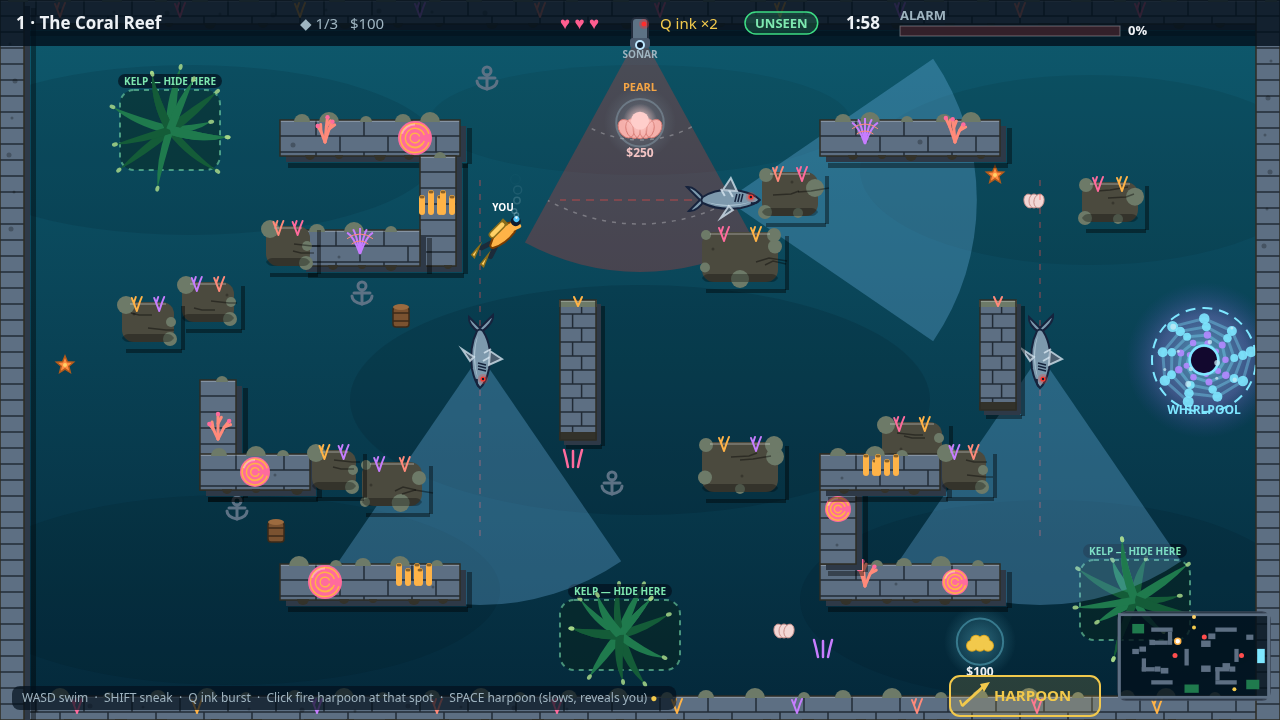
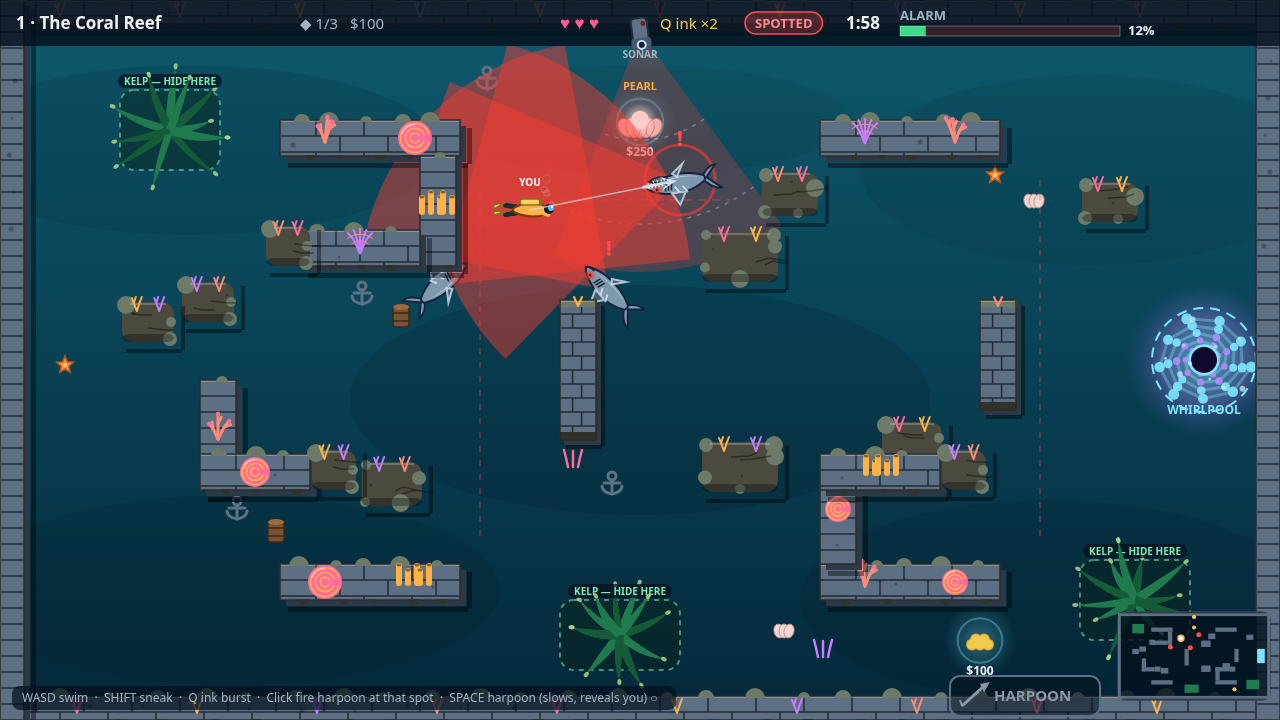
Sunken Vault: staged screenshots show all three sharks

diff --git a/game/src/shots.js b/game/src/shots.js
@@ -184,6 +184,53 @@ export function stageShot(id) {
   }
   if (id === 'play') {
     runPilot(world, 2.5, false);
+    // The cover must read "many sharks" in one second: park the diver in open
+    // water and bring all three reef sharks in close around them — two chasing
+    // with red cones, one winding up with jaws half open and teeth showing —
+    // and a harpoon already in flight toward it. Staging only: the game
+    // itself is untouched (same patrols, same rules, same walls). Each shark
+    // sits in open water with a clear sight line to the diver, so the cones
+    // really point at them and the wind-up is real game logic, not a pose.
+    const p = world.state.player;
+    p.x = 530;
+    p.y = 210;
+    p.dirX = 1;
+    p.dirY = 0;
+    const sharks = world.state.sharks;
+    // Left-below: clear sight under the winding chain's corner.
+    sharks[0].x = 400;
+    sharks[0].y = 320;
+    sharks[0].dir = Math.atan2(p.y - 320, p.x - 400);
+    sharks[0].state = 'chase';
+    sharks[0].suspicion = 1;
+    sharks[0].loseTimer = 99;
+    sharks[0].attackCooldown = 0;
+    sharks[0].lastSeen = { x: p.x, y: p.y };
+    // Top-right: winding up, jaws half open, teeth out, pulsing red ring.
+    sharks[1].x = 680;
+    sharks[1].y = 180;
+    sharks[1].dir = Math.atan2(p.y - 180, p.x - 680);
+    sharks[1].state = 'windup';
+    sharks[1].windupTimer = SHARK.windupSeconds;
+    sharks[1].suspicion = 1;
+    sharks[1].loseTimer = 99;
+    sharks[1].attackCooldown = 0;
+    sharks[1].lastSeen = { x: p.x, y: p.y };
+    // Right-below: clear sight over the top of the mid pillar.
+    sharks[2].x = 640;
+    sharks[2].y = 330;
+    sharks[2].dir = Math.atan2(p.y - 330, p.x - 640);
+    sharks[2].state = 'chase';
+    sharks[2].suspicion = 1;
+    sharks[2].loseTimer = 99;
+    sharks[2].attackCooldown = 0;
+    sharks[2].lastSeen = { x: p.x, y: p.y };
+    // The diver shoots first: a spear toward the winding-up shark, caught
+    // mid-flight in the frame — a long bright spear, still well short of
+    // the shark. Two tenths of a second of flight puts it clearly in the
+    // open water between diver and shark.
+    world.step(STEP, { x: 0, y: 0, sneak: false, ink: false, fire: true, aimX: 680, aimY: 180 }, false);
+    runSteps(world, 0.2, IDLE);
     return { type: SCREEN_PLAY, world };
   }
   if (id === 'sneak') {
@@ -198,30 +245,47 @@ export function stageShot(id) {
     world.state.player.x = 640;
     world.state.player.y = 120;
     runSteps(world, 2, IDLE);
-    // Then the reef shark closes in and attacks for real: put it in chase just
-    // inside attack range, step through the wind-up, and catch the lunge as it
-    // starts — jaws wide open, teeth out, alarm still climbing.
+    // Two sharks attack at once: the reef shark from the left and the top
+    // guard from the right, both wound up with jaws half open — then both
+    // lunge in the same beat, teeth out, alarm still climbing. The wind-up
+    // is real game logic (fair 0.5s warning, sight kept the whole time); the
+    // positions are just where the two patrols are parked for the shot.
     const shark = world.state.sharks[0];
     shark.x = 560;
     shark.y = 120;
     shark.dir = 0;
-    shark.state = 'chase';
+    shark.state = 'windup';
+    shark.windupTimer = SHARK.windupSeconds;
     shark.suspicion = 1;
     shark.loseTimer = 99;
     shark.attackCooldown = 0;
+    shark.lastSeen = { x: 640, y: 120 };
+    const shark2 = world.state.sharks[1];
+    shark2.x = 730;
+    shark2.y = 150;
+    shark2.dir = Math.atan2(120 - 150, 640 - 730);
+    shark2.state = 'windup';
+    shark2.windupTimer = SHARK.windupSeconds;
+    shark2.suspicion = 1;
+    shark2.loseTimer = 99;
+    shark2.attackCooldown = 0;
+    shark2.lastSeen = { x: 640, y: 120 };
     // The diver shoots first: the harpoon hit tells the shark exactly where
     // the diver is (so it comes straight for them) and slows it down — the
-    // new trade-off, caught in the frame as a chasing shark with a gold slow
-    // chevron under it, mid-lunge a moment later. The chevron is the proof
-    // in the frame that the shark was shot.
+    // new trade-off, caught in the frame as a lunging shark with a gold slow
+    // chevron under it. The chevron is the proof in the frame that the shark
+    // was shot.
     world.step(STEP, { x: 0, y: 0, sneak: false, ink: false, fire: true, aimX: 560, aimY: 120 }, false);
     runSteps(world, 0.4, IDLE);
+    // Both wind-ups end on the same step, so both sharks lunge together —
+    // catch them a breath into the lunge, jaws wide open, still clear of
+    // the diver.
     let lunging = false;
     for (let i = 0; i < Math.round(2 / STEP) && !lunging; i += 1) {
       world.step(STEP, IDLE, false);
       if (shark.state === 'lunge') lunging = true;
     }
-    if (lunging) runSteps(world, 0.05, IDLE);
+    if (lunging) runSteps(world, 0.06, IDLE);
     return { type: SCREEN_PLAY, world };
   }
   if (id === 'harpoon') {
